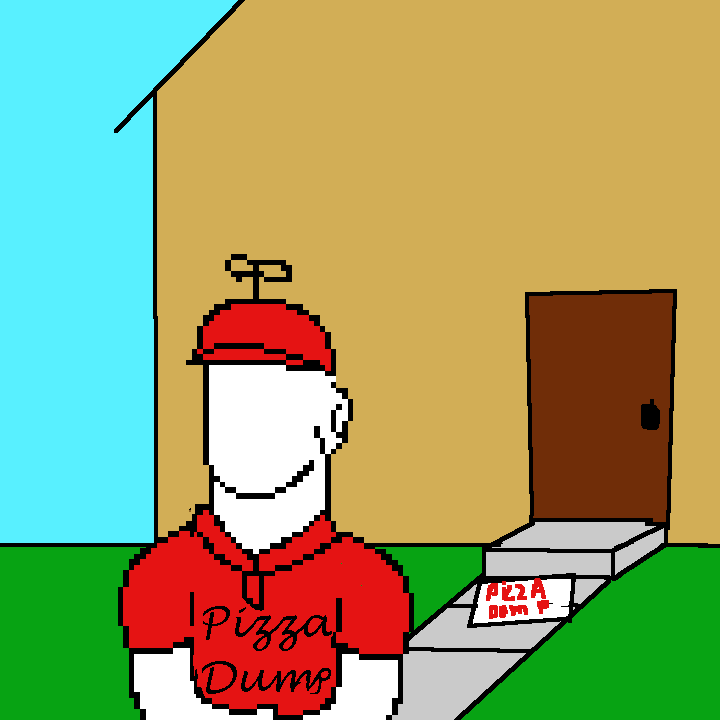
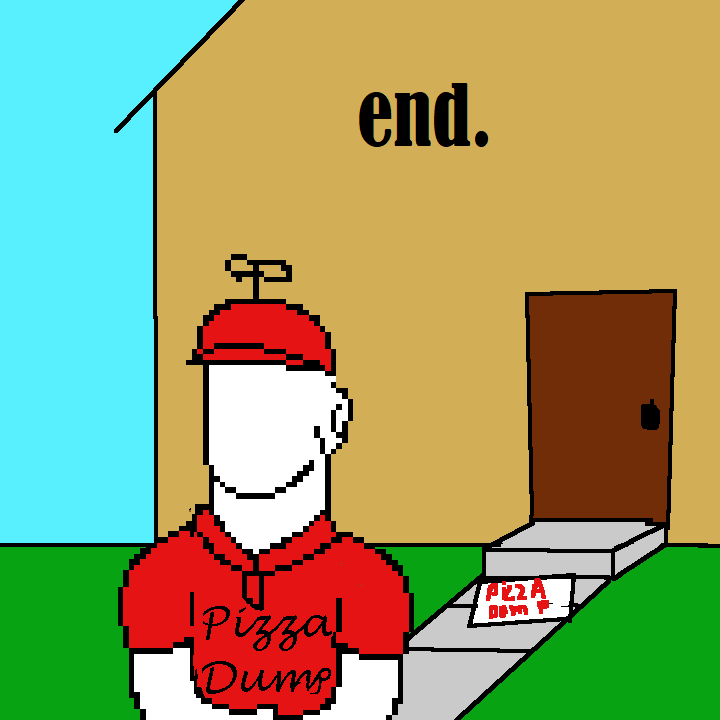
done! just need marriage pic

Changed region(s): [[0.4889, 0.0917, 0.7028, 0.2139]]

diff --git a/pizza.js b/pizza.js
@@ -27,43 +27,48 @@ function live() {
 }
 
 function progressText() {
-
-    if (currentIndex == currentArr.length - 1) {
-        if (currentArr[currentIndex[0].includes('ending')]) {
-            console.log('ending: ' + currentArr[currentIndex][0].substring(7, currentArr[currentIndex][0].length - 1));
-            showEnd(currentArr[currentIndex][0].substring(7, 8));
+    try {
+        if (currentIndex == currentArr.length - 1) {
+            if (currentArr[currentIndex][0].includes('ending')) {
+                showEnd(currentArr[currentIndex][0].substring(6, currentArr[currentIndex][0].length));
+            } else {
+                dialog.style.display = "none";
+                dialog.innerHTML = "";
+                options.style.display = "block";
+                choices = currentArr[currentIndex][0].split('|');
+                buttomPromps = currentArr[currentIndex][1].split('|');
+                choice1.innerText = buttomPromps[0];
+                choice2.innerText = buttomPromps[1];
+                if (choices.length == 3) {
+                    choice3.style.display = "block";
+                    choice3.innerText = buttomPromps[2];
+                }
+                else {
+                    choice3.style.display = "none";
+                }
+            }
+        } else {
+            options.style.display = "none";
+            dialog.style.display = "block";
+            let words = currentArr[currentIndex][0];
+            dialog.innerHTML = words;
+            if (currentArr[currentIndex][1].includes("avatar")) {
+                let avatarName = currentArr[currentIndex][1].substring(7, currentArr[currentIndex][1].length - 1);
+                avatar(avatarName);
+            }
+            currentIndex++
         }
-        dialog.style.display = "none";
-        dialog.innerHTML = "";
-        options.style.display = "block";
-        console.log(currentArr[currentIndex][0]);
-        choices = currentArr[currentIndex][0].split('|');
-        buttomPromps = currentArr[currentIndex][1].split('|');
-        choice1.innerText = buttomPromps[0];
-        choice2.innerText = buttomPromps[1];
-        if (choices.length == 3) {
-            choice3.style.display = "block";
-            choice3.innerText = buttomPromps[2];
-        }
-        else {
-            choice3.style.display = "none";
-        }
-    } else {
-        options.style.display = "none";
-        dialog.style.display = "block";
-        let words = currentArr[currentIndex][0];
-        console.log(words);
-        dialog.innerHTML = words;
-        if (currentArr[currentIndex][1].includes("avatar")) {
-            let avatarName = currentArr[currentIndex][1].substring(7, currentArr[currentIndex][1].length - 1);
-            avatar(avatarName);
-        }
-        currentIndex++
+    }
+    catch (e) {
+        console.log(e);
     }
 }
 
 function showEnd(endingImg) {
-    console.log(endingImg)
+    pizzaMan.src="";
+    textbox.style.display = "none";
+    dialog.style.display = "none";
+    options.style.display = "none";
     switch (endingImg) {
         case 'Punch':
             endPic.src = "./assets/endings/punch.png";
@@ -74,6 +79,12 @@ function showEnd(endingImg) {
         case 'Together':
             endPic.src = "./assets/endings/together.png";
             break;
+        case 'Angry':
+            endPic.src = "./assets/endings/angry.png";
+            break;
+        /* case 'Marriage':
+             endPic.src = "./assets/endings/marriage.png";
+             break;*/
         default:
             endPic.src = "./assets/endings/generic.png";
             break;
@@ -83,7 +94,6 @@ function showEnd(endingImg) {
 function switchPath(path) {
     currentIndex = 0;
     currentArr = eval(choices[path]);
-    console.log(currentArr);
     options.style.display = "none";
     dialog.style.display = "block";
     choices = [];
@@ -91,7 +101,6 @@ function switchPath(path) {
 }
 
 function avatar(avNum) {
-    console.log(avNum)
     switch (avNum) {
         case "neutral":
             pizzaMan.src = "./assets/man/pizzaNeutral.png";
@@ -171,7 +180,7 @@ var Truth = [["'Man, I gotta be honest with you. I have no money on me.", ""]
     , ["truthApology|genericAngry", "Apologize to him|Get angry at him"]
 ];
 
-var truthApology = [["*You apologize profusely, making sure to state you know where his anger is coming from*", "avatar(sad)"],
+var truthApology = [["*You apologize profusely, making sure to state you know where his anger is coming from*", "avatar(sad)"]  
     , ["Im sorry man. I'll just go now. The pizza is on me.", ""]
     , ["As he begins to walk off, you find yourself still feeling bad. Should you stop him and try to console him or let him go?", ""]
     , ["letGo|truthConsole", "Let him go|Console Him"]
@@ -181,17 +190,28 @@ var letGo = [["*You simply watch as he walks off again. You hope he'll be okay",
     , ["endingLeave", ""]
 ];
 
-var truthConsole = [["'Wait, ' you exclaim, putting your hand on his shoulder. You proceed to have a long session of emotional support over pizza, and end up making a new friend."]
-    , ["endingTogether", ""]
+var truthConsole = [["'Wait, ' you exclaim, putting your hand on his shoulder. You proceed to have a long session of emotional support over pizza, and end up making a new friend.",""]
+    ,["endingTogether", ""]
 ];
-var genericAngry = [["'You know what screw you dude' you exclaim, putting your hand on his shoulder. You proceed to have a long session of emotional support over pizza, and end up making a new friend."]
-    , ["endingTogether", ""]
+var genericAngry = [["'You know what screw you dude' you exclaim, locking yourself into an argument for the next 20 minutes that", "avatar(angry)"]
+    , ["*As the argument ends the delivery man storms out angrily, throwing the pizza on the floor as he leaves. what a waste of time. and pizza.*", "avatar(none)"]
+    , ["endingAngry", ""]
 ];
-var Lie = [["'Hey there good looking, I may have misplaced my money, but I can do you one better.", ""]
-    , ["Are...Are you trying to seduce me?", "avatar(disgusted)"]
-    , ["Okay, first of all, I could get fired.", "avatar(annoyed)"]
-    , ["Second of all, how do you know what I want in a relationship", "avatar(sus)"]
-    , ["I actually went through some stuff recently and I don't think I'm ready for another relationship", "avatar(sad)"]
-    , ["It's clear to you that He's hurting right now. \nWill you continue to pursue him as is, or attempt to empathize?", ""]
-    , ["Pursue|Empathize", ""]
+var Lie = [["'Hey man, my money is in my other pair of pants. Why dont you give me the pizza and I can go grab it.'", ""]
+    , ["*Immediately, he sees through it*", "avatar(annoyed)"]
+    , ["I hear this crap atleast ten times a day dude. Are you gonna pay or what?", ""]
+    , ["*You find yourself with 3 options: Waste his time until he just leaves, verbally berate him, or assault him and steal the pizza", ""]
+    , ["waste|genericAngry|assault", "Waste his time|Berate him|Assault him"]
 ];
+
+var waste = [["*you proceed to spend two hours dodging his questions by reciting several hundred digits of pi.*", ""]
+    , ["Oh my god, fine! Just take the pizza dude! Just please, stop the nonrepeating numbers!", "avatar(angry)"]
+    , ["*he drops the pizza at your feet and runs away. You've won . . . but at what cost?", "avatar(none)"]
+    , ["endingLeave", ""]
+];
+
+var assault = [["*You decide to try to suprise him and punch him. This immediately fails, as he dodges, and returns a punch of his own. This is gonna hurt.*", "avatar(none)"]
+    , ["endingPunch", ""]
+];
+
+

diff --git a/pizza.html b/pizza.html
@@ -9,7 +9,7 @@
         <div id="main">
             <img id="pizzaMan">
             <div id="textbox" onclick="progressText()">
-                <p id="textarea">i'm a goomba</p>
+                <p id="textarea"></p>
             </div>
             <div id="choices">
                 <button id="choice1" onclick="switchPath(0)">
